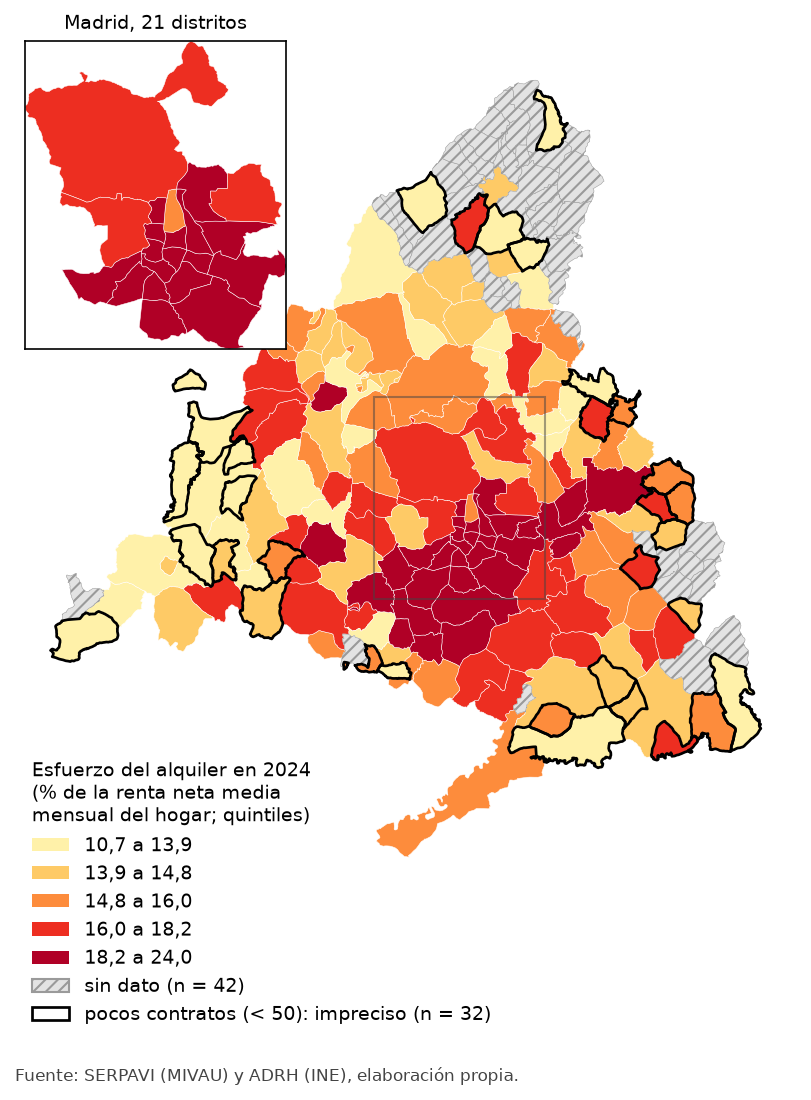
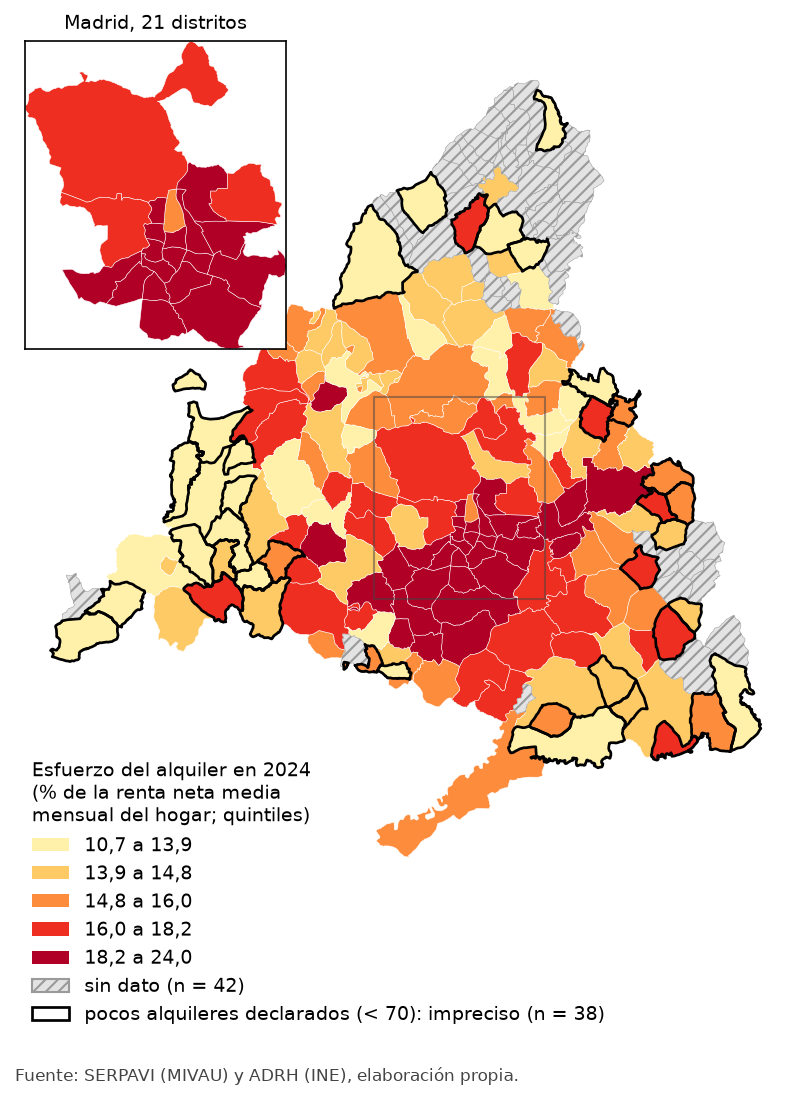
fix(src): umbral de testigos del SERPAVI a 70 por el error del €/m² (#413)
* fix(src): umbral de testigos del SERPAVI a 70 por el error del €/m² (#368)

* fix(app): el margen de ±8 % es el de una zona con 70 alquileres declarados (#368)

* docs(decisiones): scripts del umbral en el PR y «algo más de una de cada diez» (#368)

diff --git a/app/informe.html b/app/informe.html
@@ -35,7 +35,8 @@
 
   <h2>Cómo leer los mapas</h2>
   <p>Cada mapa pinta los municipios y, en el recuadro, los 21 distritos de Madrid, que a la escala de la Comunidad apenas se verían (fuente: <code>datos/zonas.geojson</code>). El gris con trama marca las zonas sin dato: municipios sin dato publicado en el SERPAVI, que no publica la cifra cuando hay pocos contratos, y, desde 2020, los de menos de 100 residentes, a los que el INE asigna la renta común de su comarca (fuente: ADRH, INE). Madrid entero no se pinta como una zona más: se ve a través de sus distritos.</p>
-  <p>El borde negro marca las zonas con menos de 50 contratos de vivienda colectiva en el SERPAVI (los «testigos»: inmuebles con ingresos de alquiler declarados): en el mapa de 2024, ese año; en el del cambio, en 2015 o en 2024. Su valor es impreciso, porque con tan pocos contratos un puñado de alquileres mueve la mediana (fuente: SERPAVI, MIVAU).</p>
+  <p>El borde negro marca las zonas con menos de 70 alquileres declarados de vivienda colectiva en el SERPAVI (los «testigos»: inmuebles con ingresos de alquiler declarados): en el mapa de 2024, ese año; en el del cambio, en 2015 o en 2024. Su valor es impreciso, porque con tan pocos alquileres un puñado mueve la mediana (fuente: SERPAVI, MIVAU).</p>
+  <p>Con 70 alquileres declarados, el alquiler mediano de una zona tendría un margen de unos ±8 % en el caso típico, y de más de ±12 % en algo más de una de cada diez zonas, las de alquileres más dispersos (intervalo del 95 % de la mediana; estimado; fuente: SERPAVI, elaboración propia). Las zonas con más alquileres declarados tienen menos margen, pero ninguna está libre de error.</p>
 
   <h2>El esfuerzo en 2024</h2>
   <figure>
@@ -46,7 +47,7 @@
   <p>En 2024 hay dato en 157 de las 199 zonas, y en la zona mediana el alquiler equivale al 15,3 % de la renta media del hogar (fuente: SERPAVI y ADRH, <code>datos/analisis.json</code>).</p>
   <p>Los valores más altos están en el centro y el sur de la capital: Centro y Puente de Vallecas, 24,0 %; Usera, 23,4 %; Carabanchel, 22,6 %; Latina, 22,3 %; Villaverde, 22,1 % (fuente: SERPAVI y ADRH, 2024).</p>
   <p>En el norte de la capital el esfuerzo baja: Chamartín, 16,0 %; Moncloa-Aravaca, 16,1 %; Salamanca, 19,0 % (fuente: SERPAVI y ADRH, 2024). Para Madrid entero es del 19,6 % (fuente: SERPAVI y ADRH, 2024).</p>
-  <p>Entre las zonas con al menos 50 contratos, los valores más bajos son los de Cadalso de los Vidrios, 10,7 %; Colmenar del Arroyo, 12,4 %, y Villanueva de la Cañada, 12,6 % (fuente: SERPAVI y ADRH, 2024). Santa María de la Alameda y Navas del Rey salen con un 11,6 %, pero con 11 y 45 contratos su valor es impreciso (fuente: SERPAVI y ADRH, 2024). El umbral de 50 es una elección propia: con 100 solo seguiría Villanueva de la Cañada, y entrarían Algete, 12,8 %, y Cobeña, 12,9 % (fuente: SERPAVI y ADRH, 2024).</p>
+  <p>Entre las zonas con al menos 70 alquileres declarados, los valores más bajos son los de Villanueva de la Cañada, 12,6 %; Algete, 12,8 %, y Cobeña, 12,9 % (fuente: SERPAVI y ADRH, 2024). Cadalso de los Vidrios sale con un 10,7 %, y Santa María de la Alameda y Navas del Rey con un 11,6 %, pero con 53, 11 y 45 alquileres declarados su valor es impreciso (fuente: SERPAVI y ADRH, 2024). El umbral de 70 es una elección propia: con 100 saldrían las mismas tres zonas; con 50 entrarían Cadalso de los Vidrios y Colmenar del Arroyo, 12,4 % (fuente: SERPAVI y ADRH, 2024).</p>
   <p>El norte no sale más bajo por tener alquileres baratos. En Chamartín el alquiler mediano es de 1.126 € al mes, más que en Centro (950 €), pero la renta media del hogar es de 7.051 € al mes, un 78 % más que en Centro (3.965 €) (fuente: SERPAVI y ADRH, 2024).</p>
 
   <h2>Cambio desde 2015</h2>
@@ -56,7 +57,7 @@
   </figure>
   <p>De las 142 zonas con dato en 2015 y en 2024, el esfuerzo sube en 68 y la mediana del cambio es de −0,06 puntos porcentuales: prácticamente plano (fuente: SERPAVI y ADRH, sin la fila de Madrid entero).</p>
   <p>Los cortes del mapa son simétricos en torno a 0. Con cortes fijos de ±0,5 y ±1 punto, 15 de las 142 zonas cambiarían de clase (17 si cada corte se asigna a la clase de abajo) y el mensaje sería el mismo: 91 zonas se mueven menos de un punto (fuente: SERPAVI y ADRH, elaboración propia).</p>
-  <p>En Madrid entero pasa del 19,1 % en 2015 a un máximo del 21,0 % en 2020 y vuelve al 19,6 % en 2024 (fuente: SERPAVI y ADRH). Entre las zonas con al menos 50 contratos en 2015 y en 2024, el esfuerzo baja más en Chinchón (3,1 puntos) y en Moraleja de Enmedio (2,6) y sube más en los distritos de Salamanca (2,3) y Retiro (1,8) (fuente: SERPAVI y ADRH, 2015-2024). Pelayos de la Presa baja 4,0 puntos, pero con 34 contratos en 2015 ese cambio es impreciso (fuente: SERPAVI y ADRH). Con un umbral de 100 contratos, las mayores bajadas serían las de Mejorada del Campo (2,2 puntos) y Loeches (1,8); Salamanca y Retiro siguen siendo las mayores subidas con 30, 50 o 100 (fuente: SERPAVI y ADRH, 2015-2024).</p>
+  <p>En Madrid entero pasa del 19,1 % en 2015 a un máximo del 21,0 % en 2020 y vuelve al 19,6 % en 2024 (fuente: SERPAVI y ADRH). Entre las zonas con al menos 70 alquileres declarados en 2015 y en 2024, el esfuerzo baja más en Chinchón (3,1 puntos) y en Moraleja de Enmedio (2,6) y sube más en los distritos de Salamanca (2,3) y Retiro (1,8) (fuente: SERPAVI y ADRH, 2015-2024). Pelayos de la Presa baja 4,0 puntos, pero con 34 alquileres declarados en 2015 ese cambio es impreciso (fuente: SERPAVI y ADRH). Las mayores bajadas dependen del umbral: Chinchón tiene 76 en uno de los dos años y Moraleja, 80, y con 100 serían Mejorada del Campo (2,2 puntos) y Loeches (1,8). Salamanca y Retiro siguen siendo las mayores subidas con 30, 50, 70 o 100 (fuente: SERPAVI y ADRH, 2015-2024).</p>
   <p>Esto no dice que alquilar hoy cueste lo mismo que en 2015. El SERPAVI recoge todos los inmuebles con ingresos de alquiler declarados en el año, incluidos los contratos firmados hace tiempo, y no el precio de los contratos nuevos (fuente: metodología del SERPAVI, MIVAU, 18-03-2026, §3.1). Con los contratos declarados, el peso del alquiler sobre la renta media apenas ha cambiado desde 2015; quien firma ahora un contrato puede estar pagando bastante más.</p>
 
   <h2>Bono Alquiler Joven frente a la necesidad</h2>
@@ -93,7 +94,7 @@
     <li>El SERPAVI son contratos declarados, no precios de oferta, y solo vivienda colectiva. Incluye contratos antiguos, así que va por detrás del mercado.</li>
     <li>Del Bono hay un solo año, la convocatoria de 2022, comparada con el esfuerzo de 2023. Con un año no se puede ver si la ayuda sigue a la necesidad con el tiempo.</li>
     <li>El conjunto de datos por municipio no da el motivo de los rechazos: no cumplir requisitos y crédito agotado van juntos. La Orden de 1-08-2024 mandó publicar en la sede electrónica el listado de excluidos con su motivo, solicitante a solicitante; este informe no lo usa (fuente: Orden de 1-08-2024, BOCM-20240816-2).</li>
-    <li>Con menos de 50 contratos en el SERPAVI, el esfuerzo de una zona es impreciso. Los mapas lo marcan con borde negro, y los extremos del texto se dan solo entre zonas con más contratos (fuente: SERPAVI, MIVAU, recuento de inmuebles por zona).</li>
+    <li>Con menos de 70 alquileres declarados en el SERPAVI, el esfuerzo de una zona es impreciso. Los mapas lo marcan con borde negro, y los extremos del texto se dan solo entre zonas con más alquileres declarados (fuente: SERPAVI, MIVAU, recuento de inmuebles por zona).</li>
     <li>La solicitud cuenta en el municipio del piso, no en el de residencia; cuenta solicitudes, no personas, y el denominador son todos los jóvenes, no los inquilinos ni quienes cumplen los requisitos.</li>
     <li>Son datos por municipio: lo que pasa en un municipio no se puede atribuir a cada joven que vive en él (falacia ecológica). Madrid entra en el Bono como un solo municipio.</li>
     <li>Los municipios sin esfuerzo son pequeños o rurales, así que el resultado del Bono habla de los municipios urbanos.</li>

diff --git a/app/vista.test.js b/app/vista.test.js
@@ -180,6 +180,7 @@ test("con factor_ipc distinto de 1 la ficha no dice «contratos de {año}» a se
 
 const conTestigos = (n) => ({ ...ejemplo, alquiler: { ...ejemplo.alquiler, zonas: { ...ejemplo.alquiler.zonas, 28065: { ...ejemplo.alquiler.zonas["28065"], testigos: n } } } });
 
+// el 50 es el min_testigos de la fixture, no el de los datos reales (70): prueba que la ficha lee meta
 test("la ficha avisa de pocos alquileres declarados con menos de min_testigos y no con 50 ni en una zona estimada", () => {
   const lineas = (api, id, caso = casos.find((c) => !("error" in c))) => lineasFicha("Zona", caso.salida.zonas[id], "sobra", contextoFicha(api, caso.entrada, caso.salida, id));
   assert.ok(lineas(conTestigos(49), "28065").some((l) => l.startsWith("Impreciso: pocos alquileres declarados (49 en 2024, menos de 50)")));
@@ -187,9 +188,9 @@ test("la ficha avisa de pocos alquileres declarados con menos de min_testigos y 
   assert.ok(!lineas(conTestigos(49), "28092", casos.find((c) => c.nombre.startsWith("coche"))).some((l) => l.startsWith("Impreciso")), "estimada: testigos null");
 });
 
-test("imprecisas con datos reales: 33 zonas, entre ellas Titulcia", () => {
+test("imprecisas con datos reales: 39 zonas, entre ellas Titulcia", () => {
   const pocas = imprecisas(real.alquiler);
-  assert.equal(pocas.size, 33);
+  assert.equal(pocas.size, 39);
   assert.ok(pocas.has("28147"));
 });
 

diff --git a/tests/test_figuras.py b/tests/test_figuras.py
@@ -1,0 +1,18 @@
+"""Frontera del umbral de testigos en los mapas del informe (#368)."""
+
+import pandas as pd
+
+from mesobra.figuras import MIN_TESTIGOS, _pocos
+
+
+def test_pocos_marca_por_debajo_del_umbral_en_cualquiera_de_los_anios():
+    tabla = pd.DataFrame(
+        {
+            "zona_id": ["a", "b", "c", "c"],
+            "anio": [2024, 2024, 2015, 2024],
+            "testigos": [MIN_TESTIGOS - 1, MIN_TESTIGOS, MIN_TESTIGOS - 1, 500],
+        }
+    )
+    assert MIN_TESTIGOS == 70
+    assert _pocos(tabla, [2024]).to_dict() == {"a": True, "b": False, "c": False}
+    assert _pocos(tabla, [2015, 2024]).to_dict() == {"a": True, "b": False, "c": True}

diff --git a/src/mesobra/alquiler.py b/src/mesobra/alquiler.py
@@ -18,7 +18,7 @@ from mesobra import contratos, paso_secciones, zonas
 
 LOG = logging.getLogger(__name__)
 
-MIN_TESTIGOS = 50  # con menos contratos declarados la mediana de la zona es imprecisa (decisión de #246)
+MIN_TESTIGOS = 70  # con menos alquileres declarados la mediana de la zona es imprecisa (#246; €/m² en #368)
 
 RAIZ = Path(__file__).resolve().parents[2]
 RAW = RAIZ / "data/raw/serpavi_bd_2011_2024_2026-11-15.xlsx"

diff --git a/src/mesobra/figuras.py b/src/mesobra/figuras.py
@@ -139,7 +139,7 @@ def _mapa(
             facecolor="none",
             edgecolor="black",
             linewidth=1.3,
-            label=f"pocos contratos (< {MIN_TESTIGOS}): impreciso (n = {int(zonas['pocos'].sum())})",
+            label=f"pocos alquileres declarados (< {MIN_TESTIGOS}): impreciso (n = {int(zonas['pocos'].sum())})",
         )
     )
     ax.legend(

diff --git a/docs/decisiones.md b/docs/decisiones.md
@@ -3,6 +3,8 @@
 Una línea por decisión, la más reciente arriba. Los agentes leen esto antes de trabajar.
 Formato: `AAAA-MM-DD · decisión · por qué · PR/issue`
 
+- 2026-11-23 · **El umbral de testigos del SERPAVI pasa de 50 a 70 (`alquiler.MIN_TESTIGOS`), el mismo en el informe y en la herramienta** (sustituye al «50» de la entrada del 20-11, que sigue valiendo en todo lo demás). Por qué: la herramienta pinta el €/m² (p50 × m²), y su error es mayor que el de la cuantía con la que se fijó 50. Método (el de #246, una sola convención): IC del 95 % de la mediana por estadísticos de orden con binomial exacta (rangos l y n+1−l, percentiles r/n), interpolado linealmente entre los p25, p50 y p75 de cada zona, en las 158 zonas observadas en su último año con dato (sin 28079). Semiancho del €/m², mediana / p90 entre zonas (estimado): con 50, 12,0 / 16,4 % (rangos 18–33, cobertura 96,7 %); con 70, **9,7 / 13,3 %** (27–44, 95,9 %); con 80, 9,5 / 13,0 % (96,7 %); con 100, 8,4 / 11,5 %. Cuantía con 70: 8,2 / 12,2 %. Segunda vía, la simulación (log-normal ajustada a p25 y p75 de cada zona, 10.000 réplicas con los mismos rangos): con 70, 9,1 / 12,1 %; confirma que la interpolación sobrestima en torno a un 6 %, no la cobertura. **Límites del «< 10 %»:** con 70, la cobertura es del 95,9 %, más baja que con 50 o con 80, por cómo cae la binomial; a la cobertura de 50 serían unos 10,1 %. Por eso se escribe «en torno al ±10 %», no «por debajo». Con la misma cobertura que 50, el umbral sería 80 (9,5 %, 42 zonas). El 10 % es una convención de #246 y la regla «< 10 %» se fijó después de ver la tabla de la issue. Coste: en la herramienta se marcan 39 de 158 zonas (antes 33), que suman 1.224 de 474.823 testigos; en el informe, 38 en el mapa de 2024 (antes 32) y 33 en el del cambio (antes 32). Las seis que entran: 28008, 28031, 28035, 28042, 28120 y 28175 (de 50 a 69 en 2024). Lo que cambia en el informe: los municipios con el esfuerzo más bajo de 2024 pasan a ser Villanueva de la Cañada (12,6 %), Algete (12,8 %) y Cobeña (12,9 %), los mismos que con 100. Cadalso de los Vidrios (53 testigos) y Colmenar del Arroyo (66) pasan a ser imprecisos. Las mayores bajadas de 2015 a 2024 siguen siendo Chinchón y Moraleja de Enmedio, pero dependen del umbral (76 y 80 testigos en el año con menos): con 100 son Mejorada del Campo y Loeches, y el informe lo dice. La marca solo cubre el error de muestreo de la mediana. No cubre el del factor de contrato nuevo (#400), ni la renta del ADRH, ni el del cambio entre años (×√2: unos ±1,8 puntos con 70 en los dos años y un esfuerzo mediano del 15,3 %, más que los cortes interiores de `mapa_cambio`; queda en #354). Una zona sin marca no tiene garantizado el ±10 %: en el p90 es ±13,3 %. «Testigos» se escribe «alquileres declarados», no «contratos» (leyenda de `figuras` e informe) · decisión de Yeray (opción b de #368); revisada por `dm-abogado-del-diablo` (APTO CON RESERVAS: cobertura, regla a posteriori y dependencia de las bajadas, recogidas aquí). Los scripts que dan estas cifras (`umbral.py` y `extremos.py`, sobre `alquiler_zona.parquet`, `esfuerzo.parquet` y `zonas.parquet`) van en la descripción del PR #413 · #368, #413
+
 - 2026-11-21 · **Congelación de la API de territorio (#105) y tres límites que hay que decir en público.** Se congelan `app/datos/zonas.geojson` y `tiempos.json` (con coche, `km_coche` y `coste_coche`, y los 16 polos) generados desde `main` en fd4ad08 con `python -m mesobra.zonas`, `tiempos`, `coche` y `pipeline_territorio` (52 min la matriz de transporte público y 3 min la de coche), con los GTFS del CRTM del 2026-11-15 y salidas del martes 2026-11-17 de 7:30 a 8:30: 199 orígenes y 215 destinos (199 zonas y 16 polos). Sin ruta en 120 min: 31.606 de los 42.785 pares de transporte público (73,9 %; entre zonas distintas, 30.079 de 39.402, el 76,3 %) frente a 341 en coche (0,8 %). Frente al `tiempos.json` anterior (39.601 pares comunes): con ruta 11.394 → 9.522 (519 ganan y 2.391 pierden) y 3.137 cambian más de 5 min (2.920 más lentos y 217 más rápidos); son las cifras de #349 (9.526 y 3.164) con menos de un 1 % de diferencia. El caso fijo de F1-09 (Getafe, hogar solo, 24.000 €, 5 días, transporte público) da 99 zonas con cifra, 59 solo sin ruta, 1 solo sin alquiler y 40 sin alquiler y sin ruta (antes 102, 56, 0 y 41); por eso cambian los recuentos de `app/vista.test.js`, `tests/test_paridad.py` y `tests/test_mcp_servidor.py`, y tres tests de `vista.test.js` que daban por hecho que los datos reales no traían coche construyen ahora el caso «sin coche» quitando sus tres tablas. **Tres límites, de más a menos graves; ninguno impide congelar y los tres se declaran.** **(1) «Sin ruta» no es «sin transporte».** Un `null` mezcla más de 120 min reales, líneas que el CRTM publica sin horario fiable, viajes descartados (también en «con» quedan 12 rutas interurbanas y 5 urbanas sin viajes ya en el GTFS crudo, y 124 y 26 viajes descartados), pares donde solo las líneas reconstruidas dan entre 116 y 120 min (`marcar_estimados` exige 115 o menos para aceptar una ruta nueva, así que quedan sin ruta aunque la haya; no se puede contar porque la matriz «con» en bruto no se guarda), el ruido en el borde de los 120 min y la baja frecuencia en la franja de 7:30 a 8:30 (la mediana incluye la espera, así que una línea con uno o dos autobuses da más de 120 min aunque el trayecto sea corto: caso de Villaconejos, entrada del 2026-11-15). Entre zonas distintas la recta mediana entre centros es de 56 km en los nulos y de 24 km en los pares con ruta, así que la mayoría son distancias reales; pero 1.507 nulos están a menos de 20 km y 3.742 a menos de 30 km (recta entre centros medida en UTM 25830; con una aproximación equirrectangular salen 1.499 y 3.735), y 157 zonas tienen al menos uno a menos de 20 km. Las zonas con más nulos cercanos son sobre todo de la sierra norte (43 de las 74 con 10 o más nulos a menos de 20 km: Garganta de los Montes, Cervera de Buitrago, Robledillo de la Jara, Berzosa del Lozoya; 787 de los 1.499 pares), pero el 69 % de los habitantes de esas 74 zonas vive fuera de ella, en el este, las Vegas y la sierra oeste (San Martín de la Vega 20.547, Meco 15.811, Nuevo Baztán 7.339); en total suman 146.515 habitantes de 6.995.318 (2,1 %), muchas zonas y poca población; Puebla de la Sierra (88 hab.) y Santa María de la Alameda (1.585) no tienen ruta a ninguna otra. Contexto medido en los GTFS: se quitan 6.950 de 58.470 viajes interurbanos (11,9 %) y 1.720 de 18.345 urbanos (9,4 %), y en la matriz «sin estimadas» 37 de las 342 rutas interurbanas quedan sin ningún viaje (las 480–499, las 350, las N80x, la 194, la 199_A y otras; en «con» ninguna). No se ha comprobado par a par cuántos de esos nulos cercanos son horario que falta y cuántos servicio que no existe. Decirlo así, sin perder los 120 min (que explican la mayoría): «sin ruta en 120 min con los horarios del CRTM (puede faltar el horario de una línea; no significa que no haya transporte)»; en la nota de `meta`, «null: más de 120 min, sin ruta o sin horario utilizable en el GTFS». La nota de `tiempos.json` (`pipeline_territorio._nota_tiempos`) ya lo dice así en este PR, porque viaja dentro del fichero que se congela; el rótulo «Sin ruta en 120 min» de la app (`app/vista.js`) sigue igual y queda para una issue aparte (no depende de D10). Izan defendió dejar la nota como estaba, porque sin horario el viaje real acabaría tardando más de 120 min; no se ha hecho: un horario que falta en el GTFS no prueba que el viaje real pase de 120 min (en la sierra norte hay autobuses reales que no salen), y los pares reconstruidos de 116 a 120 min también quedan en `null`. Y no presentar como cifra medida los 120 min que imputa `simulacion.py` a esos pares (#336). **(2) Los pares `estimado` pueden ser optimistas.** `tiempos.marcar_estimados` toma el tiempo con líneas reconstruidas solo si baja más de 5 min sobre el de sin ellas: un filtro de un solo sentido sobre un método con error medio de ~20 min por viaje (#311: cociente reconstruido/real con mediana 1,06 y p10–p90 0,56–2,69; en la otra muestra, error medio de 10,7 min), y r5py se queda con el mejor trayecto, así que lo seleccionado es la cola rápida. #311 midió el error por viaje, no el sesgo por par: no está medido. Son 2.180 de los 9.323 pares entre zonas con ruta (23,4 %; 2.405 con polos y diagonal), con origen en 163 de 199 zonas. 1.289 de ellos (59 %) no tenían ruta sin las líneas reconstruidas: ahí no se corrige un tiempo, se crea la ruta; en los 891 restantes el tiempo baja una mediana de 10,0 min (p90 27,0 y máximo 78,0). La nota de `tiempos.json` da el 21,5 % (2.405 de 11.179 pares con ruta, con polos y diagonal) y aquí el 23,4 % (2.180 de 9.323 entre zonas): decir siempre el denominador. Decirlo así: «algunos horarios del CRTM están reconstruidos; esos tiempos pueden ser más cortos que los reales». Medirlo exige una pasada más de r5py con líneas de horario real a las que se borra el horario y se reconstruye, comparando por par. **Hueco de contrato:** la tabla `tiempos` (parquet) lleva `estimado` por par, pero `tiempos.json` no (solo `tp`), así que la web no puede enseñar cuáles son y su nota dice «el fichero no dice cuáles»; añadirlo toca `api_estatica.py`, `pipeline_territorio.py`, `calculo.js` y la app, y tras este PR `app/datos/` de territorio no se toca sin las dos firmas (D10): decisión de Izan y Yeray, añadir la matriz `estimado` antes de firmar o declarar que la web solo puede dar el porcentaje global. Además, el PR abierto #390 borra de `app/app.js` la frase «Parte de los tiempos son estimados y el fichero no marca cuáles»: si se mergea sin reponer un aviso equivalente, esta limitación deja de comunicarse en la app (la nota de `meta` sigue diciéndolo, pero la ficha no lo enseña). **(3) La matriz no se reproduce al minuto.** r5py da resultados distintos en dos pasadas idénticas: diferencia mediana 0 min, p99 2, p99,9 4 y máximo 7 sobre 10.780 pares, y 83 pares cambian entre tener y no tener ruta cerca de los 120 min (medido el 2026-11-16, `tiempos.TOLERANCIA_MIN`). La tolerancia de 5 min coincide con ese ruido, así que algunos `estimado` y esos pares del borde pueden ser ruido, y regenerar da otro fichero. Con los mismos datos y el mismo código, esta ejecución da 2.405 pares que cambian entre «sin» y «con» y 9.775 → 11.179 pares con ruta, frente a los 2.407 y 9.774 → 11.176 de #349: la diferencia es de unos pocos pares y es compatible con ese ruido, aunque no se ha aislado la causa (tampoco el efecto de #394 en los polos). Por eso el fichero congelado es el que vale y no se regenera sin las dos firmas. Decirlo así: «los tiempos salen de un simulador con un margen de unos 5 minutos; no los leas al minuto» · lo exige la issue (descripción del PR con commit, fecha de los GTFS, destinos, pares sin ruta y diferencias) y se pidió dejar escritas las limitaciones para decidir cómo contarlas al público · #105
 
 - 2026-11-22 · **Hasta 5 hijos en el neto, la API y el formulario (#318).** Mínimos del 3.º y del 4.º y siguientes descendientes: 4.000 y 4.500 € estatales (LIRPF, art. 58.1) y 4.400 y 4.950 € en Madrid (DL 1/2010, art. 2 bis, redacción de la Ley 13/2023), comprobados en el texto consolidado del BOE el 22-11; `netos.json` pasa a 12 configuraciones. La app avisa, junto al resultado, de que el neto no incluye la deducción del art. 81 bis.1.c: hasta 1.200 €/año la familia numerosa general o el monoparental con dos hijos con todo el mínimo (este último aviso faltaba desde #79), 2.400 € la especial y 600 € más por cada hijo por encima del mínimo de su categoría (3 y 5, Ley 40/2003, arts. 2.1 y 4.1); «hasta» porque los 1.200 € base tienen como límite las cotizaciones (art. 81 bis.2) y el título es requisito. Con 3 hijos o más y «Familia numerosa» en «No», otro aviso pide marcar la categoría si se tiene el título (no se marca sola: hace falta el título); con 5 o más y «general», que por número es especial. Los casos de 3 y 5 hijos de `tests/test_neto.py` están calculados a mano; **falta contrastarlos con Renta WEB Open de la AEAT**, cuyo formulario no admitió entrada automatizada (#318) · #318, #290
@@ -25,7 +27,7 @@ Formato: `AAAA-MM-DD · decisión · por qué · PR/issue`
 - 2026-11-20 · **Los pesos de destino siguen con la matriz de 2023 para la web del 23-11; se actualizarán con la publicación del INE del 24-11-2026 («Censos Anuales de Población. Ocupación y actividad», 01/01/2024 a 2026) si trae la matriz de residencia × trabajo** (decisión de Yeray). Hasta entonces, lo que se publique de la simulación dice que los pesos son de 2023 · la publicación llega un día después de publicar la web y el calendario no dice si incluye la matriz · #335, #336
 - 2026-11-20 · **F3-10 (#161) se cierra sin la ruta real: la tarifa de cada par sigue con la heurística de #162** (recta entre centros, una validación, `clave_estimada = true`). `tiempos` no gana `validaciones`, `corona_min`, `corona_max` ni `sistemas`, y `pipeline_euros.rutas()` sigue calculando la heurística por su cuenta. Motivo: r5py 1.1.7 `DetailedItineraries` agota los 25 GB de memoria de Java al reconstruir trayectos (`trip_planner.transit_paths`) incluso con 3 pares y un solo hilo; también falla con ventana de 1 min, con un máximo de 4 subidas y 20 min a pie, y sin las líneas reconstruidas de #173 (la matriz `TravelTimeMatrix` sí sale). Escribir la heurística en `tiempos` con `estimado` habría marcado como estimados los minutos de todos los pares y habría quitado la marca `clave_estimada`. Límite que declara F5-03 (#109): la recta no ve el paso por un intercambiador de Madrid entre periferias, así que a quien tiene de 26 a 64 años y va de una periferia a otra se le puede cobrar el abono interzonal en lugar del normal, y el transbordo con sencillo o 10 viajes no se cobra. Cota del error: 14,50 € (hasta B2) o 20,50 € (hasta B3, C1 o C2) de diferencia de abono, **≈ 13,50 o 19 €/mes** con descuento (× 335/30 ÷ 12; sin descuento, ≈ 23 o 33 €/mes; estimado). El sesgo va siempre en el mismo sentido: «lo que sobra» sale más alto de lo real. No afecta al Abono Joven (menores de 26), al +65 ni a los pares con extremo en A. No se ha medido cuántos de esos pares pasan de verdad por Madrid · decisión de Izan tras el bloqueo (diagnóstico en el comentario de #161); la otra vía, inferir la ruta de los GTFS sin r5py, no cabía antes del corte del 20-11 · #161
 - 2026-11-20 · **Licencia ODbL 1.0 para `tiempos.json`, `zonas.geojson` y `alquiler.json`** (decisión de Izan; amplía la del 2026-11-16, que solo nombraba los tiempos). Son los tres ficheros de `app/datos/` que citan OpenStreetMap en su `meta.fuentes`: los tiempos salen de su red viaria, los centros de las zonas de sus edificios y el reparto de códigos postales del alquiler de sus portales. El resto de `app/datos/` sigue con CC BY 4.0 · la ODbL obliga a publicar con la misma licencia las bases de datos derivadas de OpenStreetMap y a citar «© OpenStreetMap contributors»; ante la duda de si los dos últimos cuentan como derivados, se elige la licencia más exigente para no afirmar una más permisiva de la que corresponde. Es un criterio prudente, no un dictamen jurídico · #108
-- 2026-11-20 · **Umbral de testigos del SERPAVI: una zona con menos de 50 testigos (inmuebles de vivienda colectiva con alquiler declarado, `testigos`) en el año que se pinta es «imprecisa», y en el mapa del cambio lo es si le pasa en cualquiera de los dos años (`alquiler.MIN_TESTIGOS`, `figuras._pocos`). Lleva borde negro y no se usa para nombrar extremos. Vale para todo lo que pinte el SERPAVI en `app/`. En la herramienta (#352), `alquiler.json` lleva los `testigos` del año con dato de cada zona observada y `meta.min_testigos`: la ficha avisa, el mapa pinta un borde punteado y la lista de las diez mejores marca la zona, sin cambiar el orden. Son 33 de las 158 zonas observadas de la herramienta (sin 28079, cada una en su último año con dato), entre ellas Titulcia, con 10 testigos de 2023.** La herramienta pinta el €/m², no la cuantía. Con el mismo método (percentiles 36 a 66), el semiancho con 50 testigos es del ±12,0 % en la zona mediana y del 16,5 % en el p90, frente al 10,2 % y el 15,2 % de la cuantía (estimado). Por eso el aviso no cita «±10 %» y dice «alquileres declarados»: los testigos son inmuebles con alquiler declarado, no contratos. Revisar el umbral de las dos vistas queda en #368. Por qué 50: es el error de la mediana con n testigos. El intervalo de confianza del 95 % sin supuestos de distribución (estadísticos de orden, binomial exacta) va, con n = 50, de los rangos 18 al 33, aproximadamente del percentil 36 al 66 (cobertura 96,7 %). Pasado a euros con la interpolación lineal entre los p25, p50 y p75 de la cuantía mensual de cada zona (`ALQTBID12_*_VC`, aproximado; con una distribución unimodal sobrestima algo el intervalo: un 5 % con una normal), su semiancho es del ±10,2 % en la zona mediana y del 15,2 % en el p90 de las 158 zonas con cuantía publicada en 2024 (2015: 10,4 y 15,5 %). Es un semiancho medio: el lado de arriba (hasta el percentil 66) es algo mayor que el de abajo (36). Con 30 testigos es del 12,5 % (p90 18,7 %) y con 100, del 7,1 % (p90 10,6 %), pero con 100 se marcan 46 zonas en vez de 32 (de 158), y las 14 que se añaden suman 1.034 de 775.260 testigos. **El borde no garantiza la clase:** el esfuerzo es la cuantía entre la renta, así que hereda ese error relativo, y los quintiles del esfuerzo de 2024 que pinta `mapa_esfuerzo` (cortes 13,86, 14,78, 15,98 y 18,17 %) tienen saltos de +6,7, +8,1 y +13,7 %. Incluso con 50 testigos o más, una zona cerca de un corte puede cambiar de quintil, y que la zona mediana bajase de ese +6,7 % pediría unos 110 a 130 testigos (6,5 %; con 120 se marcarían 50 zonas); el p90, unos 240 (6,5 %; con 250, 67 zonas). El umbral marca dónde el dato es claramente más inseguro que en el resto (el error crece como 1/√n), no dónde la clase es segura. 50 es una convención: deja la zona típica en torno a ±10 % sin marcar un tercio del mapa. Límites: el SERPAVI es casi un censo de lo declarado en el IRPF, no una muestra, así que el intervalo mide lo estable que es la mediana como alquiler típico de la zona; el umbral solo cubre el error del alquiler, no el de la renta del ADRH que divide el esfuerzo; y el cambio entre dos años suma el error de ambos (unas √2 veces si son independientes): con un esfuerzo mediano del 15,4 % y ±10 %, unos ±2 puntos con 50 testigos en los dos años, más que las clases interiores de `mapa_cambio` (cortes en ±0,38 y ±1,07 puntos), y por eso se marca si falla cualquiera de los dos años; tratarlo en el informe queda en #354. Sensibilidad medida en #245: con 30, 50 o 100 cambian los municipios con el esfuerzo más bajo de 2024 y las mayores bajadas de 2015 a 2024; Salamanca y Retiro siguen siendo las mayores subidas con los tres. Cifras con `serpavi_bd_2011_2024_2026-11-15_{municipios,distritos}.parquet` (179 municipios y los 21 distritos de Madrid) · decisión de Yeray · #246, #245
+- 2026-11-20 · **Umbral de testigos del SERPAVI: una zona con menos de 50 testigos (inmuebles de vivienda colectiva con alquiler declarado, `testigos`) en el año que se pinta es «imprecisa», y en el mapa del cambio lo es si le pasa en cualquiera de los dos años (`alquiler.MIN_TESTIGOS`, `figuras._pocos`). Lleva borde negro y no se usa para nombrar extremos. Vale para todo lo que pinte el SERPAVI en `app/`. En la herramienta (#352), `alquiler.json` lleva los `testigos` del año con dato de cada zona observada y `meta.min_testigos`: la ficha avisa, el mapa pinta un borde punteado y la lista de las diez mejores marca la zona, sin cambiar el orden. Son 33 de las 158 zonas observadas de la herramienta (sin 28079, cada una en su último año con dato), entre ellas Titulcia, con 10 testigos de 2023.** La herramienta pinta el €/m², no la cuantía. Con el mismo método (percentiles 36 a 66), el semiancho con 50 testigos es del ±12,0 % en la zona mediana y del 16,5 % en el p90, frente al 10,2 % y el 15,2 % de la cuantía (estimado). Por eso el aviso no cita «±10 %» y dice «alquileres declarados»: los testigos son inmuebles con alquiler declarado, no contratos. Revisar el umbral de las dos vistas queda en #368 (el 23-11 pasa a 70: ver arriba). Por qué 50: es el error de la mediana con n testigos. El intervalo de confianza del 95 % sin supuestos de distribución (estadísticos de orden, binomial exacta) va, con n = 50, de los rangos 18 al 33, aproximadamente del percentil 36 al 66 (cobertura 96,7 %). Pasado a euros con la interpolación lineal entre los p25, p50 y p75 de la cuantía mensual de cada zona (`ALQTBID12_*_VC`, aproximado; con una distribución unimodal sobrestima algo el intervalo: un 5 % con una normal), su semiancho es del ±10,2 % en la zona mediana y del 15,2 % en el p90 de las 158 zonas con cuantía publicada en 2024 (2015: 10,4 y 15,5 %). Es un semiancho medio: el lado de arriba (hasta el percentil 66) es algo mayor que el de abajo (36). Con 30 testigos es del 12,5 % (p90 18,7 %) y con 100, del 7,1 % (p90 10,6 %), pero con 100 se marcan 46 zonas en vez de 32 (de 158), y las 14 que se añaden suman 1.034 de 775.260 testigos. **El borde no garantiza la clase:** el esfuerzo es la cuantía entre la renta, así que hereda ese error relativo, y los quintiles del esfuerzo de 2024 que pinta `mapa_esfuerzo` (cortes 13,86, 14,78, 15,98 y 18,17 %) tienen saltos de +6,7, +8,1 y +13,7 %. Incluso con 50 testigos o más, una zona cerca de un corte puede cambiar de quintil, y que la zona mediana bajase de ese +6,7 % pediría unos 110 a 130 testigos (6,5 %; con 120 se marcarían 50 zonas); el p90, unos 240 (6,5 %; con 250, 67 zonas). El umbral marca dónde el dato es claramente más inseguro que en el resto (el error crece como 1/√n), no dónde la clase es segura. 50 es una convención: deja la zona típica en torno a ±10 % sin marcar un tercio del mapa. Límites: el SERPAVI es casi un censo de lo declarado en el IRPF, no una muestra, así que el intervalo mide lo estable que es la mediana como alquiler típico de la zona; el umbral solo cubre el error del alquiler, no el de la renta del ADRH que divide el esfuerzo; y el cambio entre dos años suma el error de ambos (unas √2 veces si son independientes): con un esfuerzo mediano del 15,4 % y ±10 %, unos ±2 puntos con 50 testigos en los dos años, más que las clases interiores de `mapa_cambio` (cortes en ±0,38 y ±1,07 puntos), y por eso se marca si falla cualquiera de los dos años; tratarlo en el informe queda en #354. Sensibilidad medida en #245: con 30, 50 o 100 cambian los municipios con el esfuerzo más bajo de 2024 y las mayores bajadas de 2015 a 2024; Salamanca y Retiro siguen siendo las mayores subidas con los tres. Cifras con `serpavi_bd_2011_2024_2026-11-15_{municipios,distritos}.parquet` (179 municipios y los 21 distritos de Madrid) · decisión de Yeray · #246, #245
 - 2026-11-20 · **Revisión con Opus de #315 y #334 (#336): cambios en la simulación del Bono.** (1) ref(d) se calcula sin los pares imputados, como decía el supuesto 19 (con 60 min imputados, un destino con un solo tiempo observado tomaba de referencia una zona imputada); (2) la sensibilidad LGSS añade la tercera condición del art. 301 original, leído en el BOE el 20-11-2026 (BOE-A-2015-11724, en vigor del 02-01-2016 al 01-03-2023): la colocación no es adecuada si el salario menos el coste del desplazamiento queda por debajo del SMI (el de 2026); se declara que usa la mediana del viaje y no el tiempo mínimo (sobreestima los largos) y que sin el radio de 30 km los subestima; (3) los 120 min de los pares sin tiempo pasan a «imputación provisional», no cota inferior (#311 halló nulos falsos y `tiempos.json` no se ha regenerado tras #350), con una sensibilidad nueva de 180 min hacia arriba; (4) citas: la banda 0,25–0,40 y HEATCO (30 a 42 %) están en la p. 91 y la nota 90 de la CBA Guide, no en la p. 90 que dice el registro previo, y el SMI de la regla es el del año simulado (la norma remite al SMI sin cuantía; 17.094 €, RD 126/2026, art. 3.1). Pendiente: regenerar `tiempos.json` (#105) y volver a ejecutar antes de citar cifras de `horas_viaje`; el control externo de los pesos y el universo del Colectivo Empresarial (issue aparte) · lo pidieron `dm-revisor-codigo`, `dm-revisor-espacial` y `dm-auditor-calculos-normativos` · #336
 - 2026-11-20 · **Arroyomolinos sin rutas (#311): 33 líneas del CRTM llevan horario de relleno y `lineas_estimadas.rellenar_horarios` las reconstruye (estimado).** Causa: en los GTFS del 15-11 todas las paradas de cada viaje de 33 rutas están a las 01:00:00 y `frequencies.txt` está vacío, así que r5py no ve esos viajes en la franja de 7:30 a 8:30. Son 5.149 viajes de 30 rutas interurbanas (8_N_204, N802, N803, N804, N808, 350A, 350B, 350C, 351, 352, 353, 355, 430, 480, 481, 482, 484, 485, 486, 487, 488, 491, 492, 493, 495, 496, 497, 498, 498A y 499; la 430 tiene 3 viajes y la N204 uno) y 3 urbanas (1A y 1B de Arroyomolinos, 1 de Leganés); la 483 no está: sus horas imposibles se tratan en la entrada de #349 del 2026-11-21. Los interurbanos 495, 496, 498, 498A y 499 y los urbanos 1A y 1B de Arroyomolinos tienen paradas a 104–552 m del centro, así que no es un fallo de acceso a pie. Método: la salida es la hora del `trip_id` (`..._06:56:00_...`; 11 viajes de la 352 y la 499 la llevan como `..._1515` o `..._620`; una hora con minutos ≥ 60 o hora ≥ 48 es error) y cada parada va a esa hora más su distancia acumulada en línea recta entre la velocidad mediana de las líneas parecidas (`parecidas`, la regla de #173); el par sale `estimado` por `marcar_estimados` si mejora más de 5 min.Alcance: 21 de 199 zonas (1.183.690 hab.) tienen una parada de estas líneas a 600 m o menos de su centro: Móstoles 211.596, Getafe 193.797, Leganés 193.279, Fuenlabrada 188.482, Retiro 118.283, Aranjuez 62.708, Arganda 59.251, Barajas 49.769, Arroyomolinos 37.886, Paracuellos de Jarama 27.035, y once más de menos de 11.000 (Daganzo, Villarejo de Salvanés, Moraleja de Enmedio, Ajalvir, Villaconejos, Perales de Tajuña, Belmonte, Batres, Villamanrique, Valdaracete y Brea de Tajo). Las 480–493 son radiales Madrid–Leganés y Madrid–Fuenlabrada, la 488 llega a Getafe y la 498 y 499 a Móstoles. El resto de las 35 zonas con menos de 10 destinos (Chinchón, Colmenar de Oreja, San Martín de Valdeiglesias y los pueblos de sierra) no tiene líneas de relleno y su escasez es del servicio. Error del método, medido con pandas sin Java: se eligen 30 líneas interurbanas con horario real (`numpy.random.default_rng(0)`, entre las 130 con 3 o más viajes de 7:30 a 8:30), se les borra el horario, se reconstruye con `rellenar_horarios` y se compara la duración reconstruida con la real en 494 viajes de punta: cociente reconstruido/real con mediana 1,06, intercuartílico 0,83–1,47, p10–p90 0,56–2,69; sesgo medio +1,1 min y error absoluto medio 20,7 min (duración real mediana 40 min); la mediana por línea va de 0,40 a 4,76. El método acierta de media pero cada línea puede equivocarse mucho (la revisión espacial midió mediana 1,05, intercuartílico 0,94–1,36, p10–p90 0,70–1,63, sesgo +4,2 min y error medio 10,7 min sobre 362 viajes: otra muestra de líneas). Límites declarados: 351, 352 y 353 toman la velocidad de una sola línea parecida (la 326, 49,7 km/h en línea recta); los urbanos no tienen referencia de su municipio (la velocidad es la de otras urbanas, 15 km/h); 16 viajes repiten paradas (13 de la 352 y 3 de la 495) y salían muy largos: desde #349 se descartan los que reconstruidos durarían más de 4 h. Contraste del supuesto «el `trip_id` lleva la salida real»: en 26.740 viajes con horario real y hora en el `trip_id`, la hora coincide con la primera salida (mediana de la diferencia 0 min) y difiere más de 5 min en 566 (2,1 %). Medido con r5py solo desde `28015` (una pasada, antes de limitar el cómputo): destinos con ruta en 180 min 81 → 161 y en 120 min 9 → 69; Móstoles 91 → 44 min, Alcorcón 113 → 65, Fuenlabrada 116 → 62, Centro 129 → 81, Latina 126 → 78, Moncloa-Aravaca 142 → 92; ningún destino empeora más de 5 min y 79 mejoran más de 5. **La matriz completa está sin recalcular**: falta `python -m mesobra.tiempos r5py` (regenera `tiempos.parquet`; después #105 regenera `tiempos.json`) y contar cuántos pares cambian más de 5 min. **Lo que quedaba (la línea 483 y los demás viajes de horas imposibles) se resuelve en #349, entrada del 2026-11-21.** Lo que se dijo entonces: la línea 483 (primera parada a 01:00:01 y el resto del recorrido, unos 43 km, en 75 s: unos 3.400 km/h de mediana en hora punta) y, en general, 310 viajes de hora punta del GTFS original a más de 90 km/h de media (223, 224A, 483, 664, 215, 430…), más 7 viajes con la última parada a 00:00:00 y 2 de la 252. Esos tiempos ya están en la matriz publicada, sin marca de estimado; arreglarlos exige limpiar las dos matrices en `tiempos.preparar_gtfs`, que #311 no puede tocar. Con un error absoluto medio de unos 20 min por viaje, la marca «estimado» sola no dice cuánto puede variar el tiempo (el umbral de 5 min de `marcar_estimados` es menor que ese error): la ficha o la leyenda deberían decirlo (#349, afecta a #107). Tope: la cota de 120 min de #301 (`simulacion.TP_IMPUTADO`, pares nulos con peso > 0, marcada `imputado`) sigue siendo provisional; el recálculo a 180 min exige `MAX_MINUTOS` en `tiempos.py` y queda para #161 · el CRTM publica los horarios de esas líneas fuera del GTFS (no se pudo contrastar con https://www.crtm.es: la página de la línea devuelve 404) · #311
 - 2026-11-20 · **Coche (#96): 0,26 €/km, sin aparcamiento ni peajes y sin tráfico.** El coste por km es la cuantía de gastos de locomoción en vehículo propio exceptuada de gravamen en el IRPF: 0,26 €/km, Orden HFP/792/2023, art. único.1 (BOE-A-2023-16461, en vigor desde el 17-07-2023; el consolidado del Reglamento, art. 9.A.2.b, aún dice 0,19 y remite a la orden); es una compensación fiscal, no un coste medido. Supuesto: se usa como aproximación del coste por km del trayecto de casa al trabajo; la norma la fija para los desplazamientos por trabajo fuera del centro que compensa la empresa, no para ir al trabajo. El aparcamiento y los peajes no se modelan, sin fuente primaria general (depende de si la empresa da plaza, de la zona SER): se declara en `tiempos.json`. Los minutos salen de r5py sobre la red de OpenStreetMap sin tráfico y no se aplica factor de congestión, sin fuente (infraestima la hora punta). Los km son línea recta × 1,3 (`FACTOR_RODEO`, supuesto sin fuente), no la distancia por carretera, y por tanto el coste en coche es `estimado`; dentro de la zona (y hasta el polo de la propia zona) la mediana de la distancia de los edificios de la zona a su centro × 1,3, para que ninguna zona dé 0 km. Dentro de la propia zona, el tiempo en coche no baja de recorrer esos km a 120 km/h (mínimo, estimado), porque con una sola sección r5py no mide el trayecto interno. Se descartó `DetailedItineraries`: su ruta no coincide con la de la matriz y no encontraba ruta al centro del distrito Centro (sin diagnosticar) · el coste en coche del cálculo usa `semanas_mes` de `tarifas.json` (3,7833) · #96
